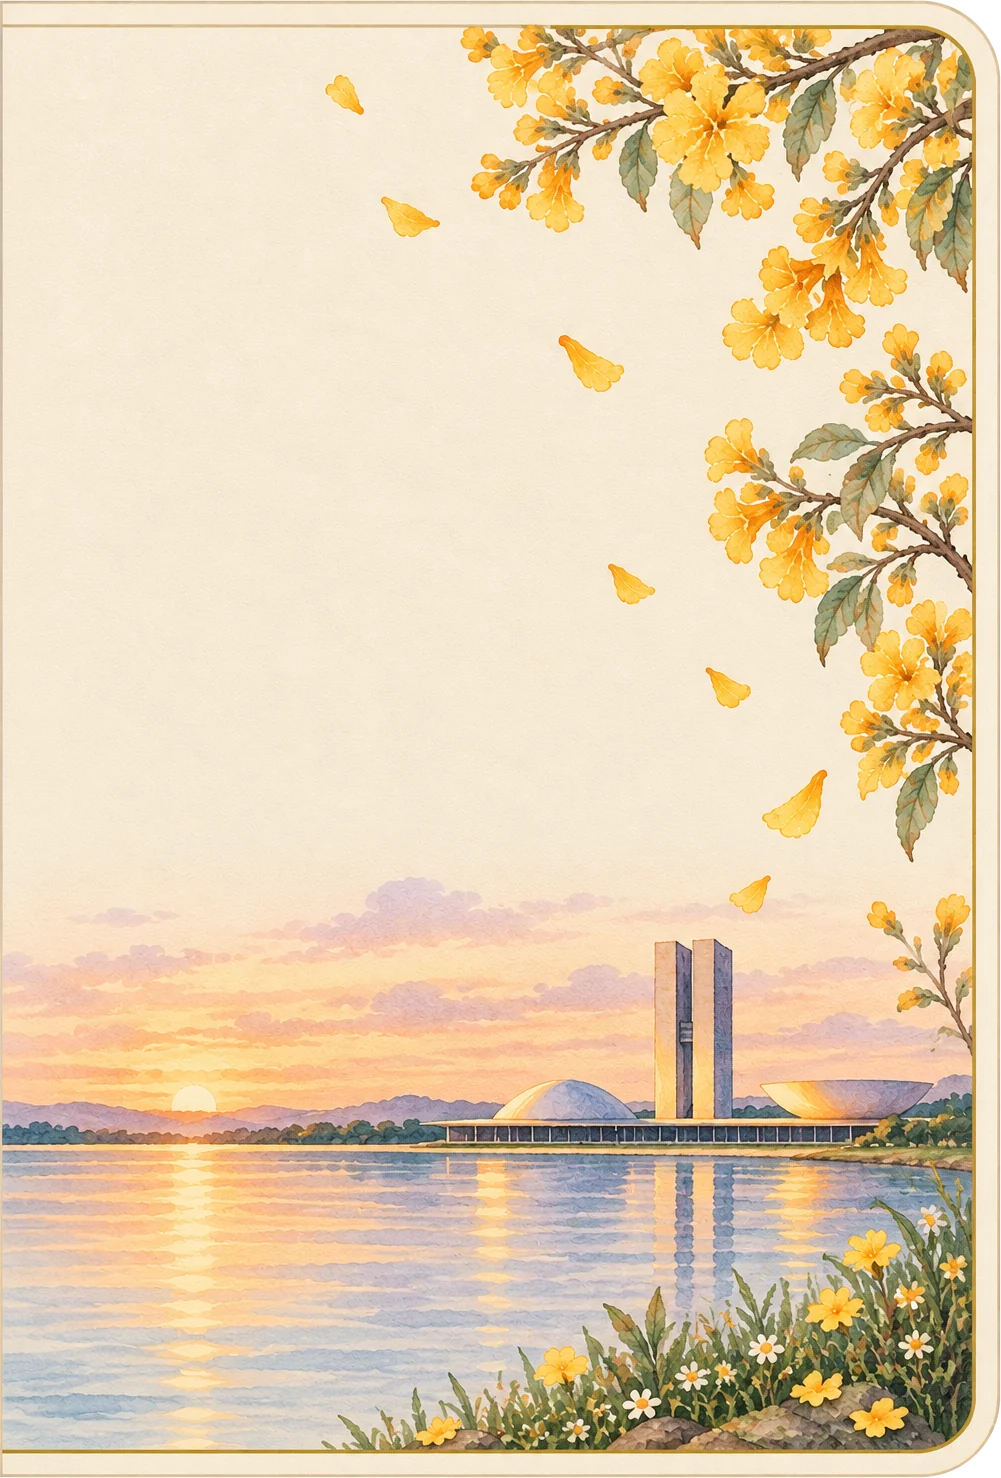
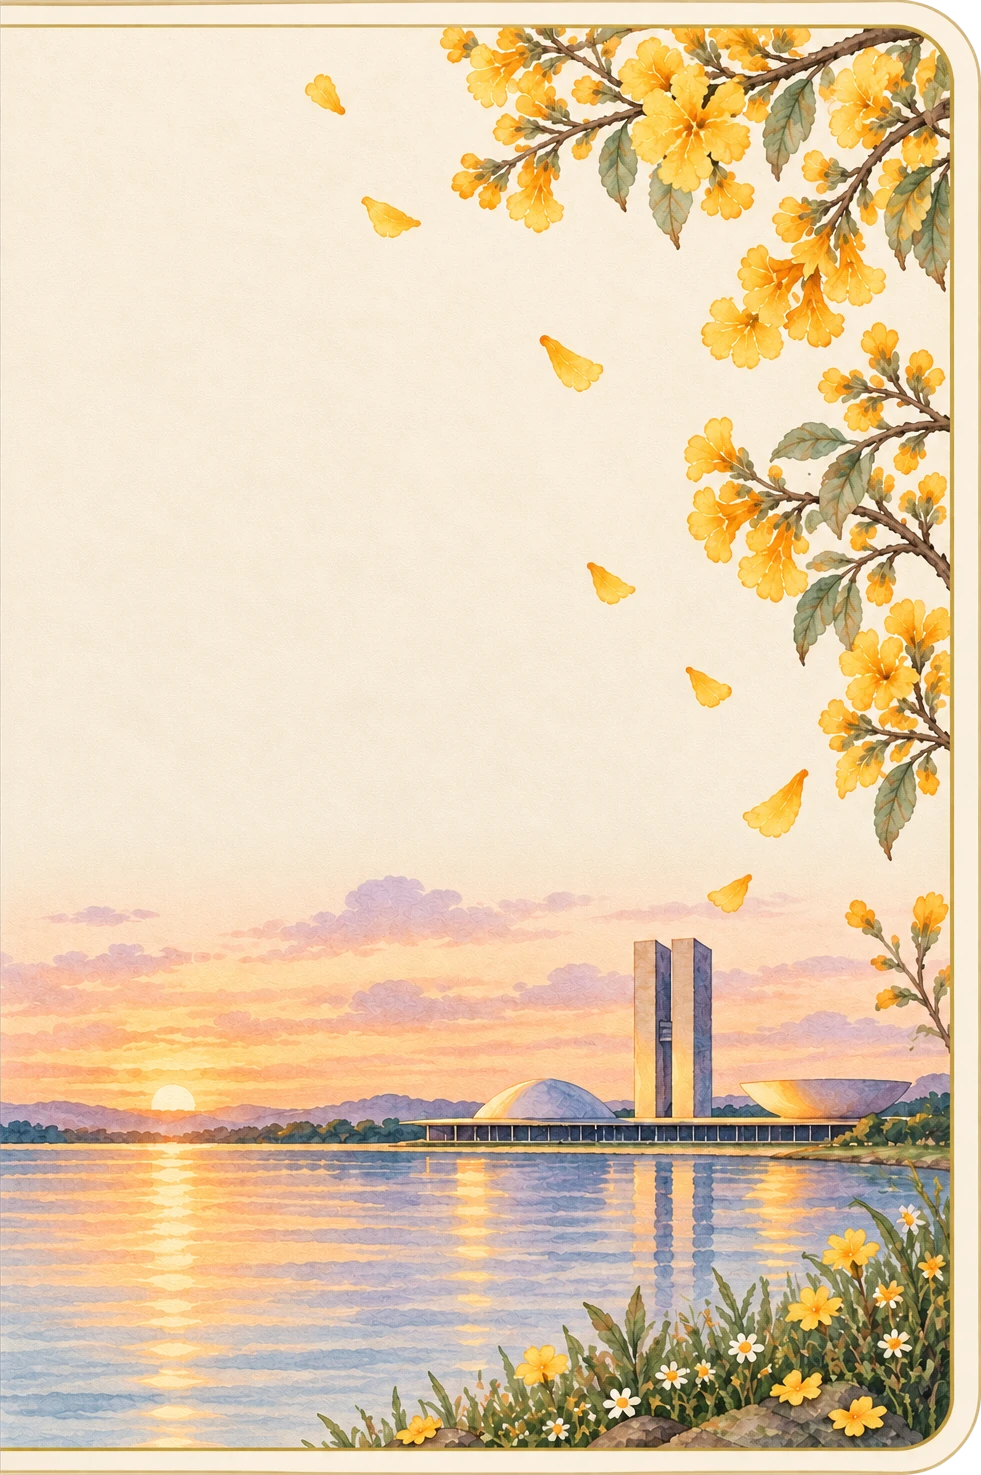
Passport: final back art drop-in, no stars, tabs off the last spread
- back-inside.webp replaced (cover_back_final_v2), fitted generically:
  the image box is the right board, so a new file at the same path drops
  in; its outer corners share the front board's radius.
- All star ornaments gone (the line-star-line dividers, the holder
  page's star, the running heads' star, the lone star on blank pages);
  spacing closed up. Hotel ratings keep their stars.
- The tabs are hidden on the last stop, leaving the back art clear.

diff --git a/src/components/sections/passport/Pages.tsx b/src/components/sections/passport/Pages.tsx
@@ -158,8 +158,8 @@ export function PageStack({
 
 /** Corner radius of the board art, as a fraction of its width: cover-inside.webp (88 / 981). */
 export const BOARD_CORNER = 0.09
-/** back-inside.webp's corner radius (80 / 1001). */
-export const BACK_CORNER = 0.08
+/** back-inside.webp's corner radius: the same as the front board's (measured ~85 vs 88 / 981). */
+export const BACK_CORNER = BOARD_CORNER
 
 /**
  * The inside of the front cover (left of the spine, open): cover-inside.webp
@@ -210,6 +210,7 @@ export function BackBoard({ rect, d, spineR }: { rect: Rect; d: string; spineR: 
       <div
         className="absolute inset-0"
         style={{
+          // The image box is the board: any art at this path drops in.
           background: `url(${ASSETS.backInside}) center / 100% 100% no-repeat, ${BOARD_CREAM}`,
         }}
       />
@@ -263,29 +264,6 @@ export function ScriptText({ children }: { children: string }) {
   )
 }
 
-/** Four-point star, the passport's little ornament. */
-export function Star({ className = '', style }: { className?: string; style?: CSSProperties }) {
-  return (
-    <svg viewBox="0 0 24 24" aria-hidden className={className} style={style}>
-      <path
-        fill="currentColor"
-        d="M12 0C12.8 7.4 16.6 11.2 24 12 16.6 12.8 12.8 16.6 12 24 11.2 16.6 7.4 12.8 0 12 7.4 11.2 11.2 7.4 12 0Z"
-      />
-    </svg>
-  )
-}
-
-/** A short gold rule with the star in the middle. */
-function Ornament({ className = '' }: { className?: string }) {
-  return (
-    <div className={`flex items-center justify-center gap-[0.7em] ${className}`} aria-hidden>
-      <span className="h-px w-[3.2em]" style={{ background: GOLD }} />
-      <Star className="h-[0.75em] w-[0.75em]" style={{ color: GOLD }} />
-      <span className="h-px w-[3.2em]" style={{ background: GOLD }} />
-    </div>
-  )
-}
-
 /** A painting crop cut into the watercolor blot (or a cut-out shown as is). */
 export function Vignette({ art, className = '' }: { art: Illustration; className?: string }) {
   const mask: CSSProperties = art.blot
@@ -329,7 +307,6 @@ function RunningHead({ section }: { section: SectionKey }) {
       <span className="font-sans text-[0.6em] tracking-[0.32em] text-forest uppercase">
         {t(`city.passport.sections.${section}.title`)}
       </span>
-      <Star className="h-[0.7em] w-[0.7em]" style={{ color: GOLD }} />
     </div>
   )
 }
@@ -421,8 +398,7 @@ function OpenerPage({ section, folio }: { section: SectionKey; folio: number }) 
       <h3 className="font-script text-honey mt-[0.6em] text-[2.5em] leading-[1.35]">
         <ScriptText>{t(`city.passport.sections.${section}.title`)}</ScriptText>
       </h3>
-      <Ornament className="mt-[1.3em] !justify-start" />
-      <p className="font-serif text-forest-deep/90 mt-[1em] text-[1.15em] leading-[1.38]">
+      <p className="font-serif text-forest-deep/90 mt-[1.9em] text-[1.15em] leading-[1.38]">
         {t(`city.passport.sections.${section}.intro`)}
       </p>
       <Vignette art={ASSETS.illustrations[section]} className="mt-[1em] min-h-0 flex-1" />
@@ -441,7 +417,6 @@ function HolderPage({ holder }: { holder?: string }) {
   const year = new Date(CONFIG.wedding.date).getFullYear()
   return (
     <div className="flex h-full flex-col items-center px-[13%] pt-[3.2em] pb-[2.6em] text-center">
-      <Star className="h-[0.9em] w-[0.9em]" style={{ color: GOLD }} />
       <div className="flex flex-1 flex-col items-center justify-center pb-[1.5em]">
         <p className="font-sans text-forest -mr-[0.42em] text-[0.62em] tracking-[0.42em] uppercase">
           {t('city.passport.holder')}
@@ -449,8 +424,7 @@ function HolderPage({ holder }: { holder?: string }) {
         <p className="font-script text-honey mt-[0.55em] text-[2.6em] leading-[1.4]">
           <ScriptText>{holder || t('city.passport.holderFallback')}</ScriptText>
         </p>
-        <Ornament className="mt-[1.1em]" />
-        <p className="font-serif text-forest-deep/90 mt-[1.8em] max-w-[18em] text-[1.15em] leading-[1.45] italic">
+        <p className="font-serif text-forest-deep/90 mt-[1.4em] max-w-[18em] text-[1.15em] leading-[1.45] italic">
           {t('city.passport.insideText')}
         </p>
       </div>
@@ -461,13 +435,9 @@ function HolderPage({ holder }: { holder?: string }) {
   )
 }
 
-/** A decorative blank page (end of a chapter with an odd page count). */
+/** A blank page (end of a chapter with an odd page count, the last page). */
 function BlankPage() {
-  return (
-    <div className="flex h-full items-center justify-center">
-      <Star className="h-[1.2em] w-[1.2em] opacity-60" style={{ color: GOLD }} />
-    </div>
-  )
+  return null
 }
 
 /** The contents of any page in the book. */

diff --git a/src/components/sections/passport/BrasiliaPassport.tsx b/src/components/sections/passport/BrasiliaPassport.tsx
@@ -506,7 +506,13 @@ export function BrasiliaPassport({
           {/* Index tabs: tucked in between the pages (the page block and the
               pages lie over their inner end), on the book's own paper. Only
               once the book is open. */}
-          <nav ref={tabsRef} aria-label={t('city.passport.tabsLabel')} style={{ opacity: 0 }}>
+          {/* Not on the last stop: the inside back cover is the end, its art
+              left clear. */}
+          <nav
+            ref={tabsRef}
+            aria-label={t('city.passport.tabsLabel')}
+            style={{ opacity: 0, visibility: cur === count - 1 ? 'hidden' : undefined }}
+          >
             {SECTIONS.map((s, i) => {
               const active = s === activeSection
               return (
